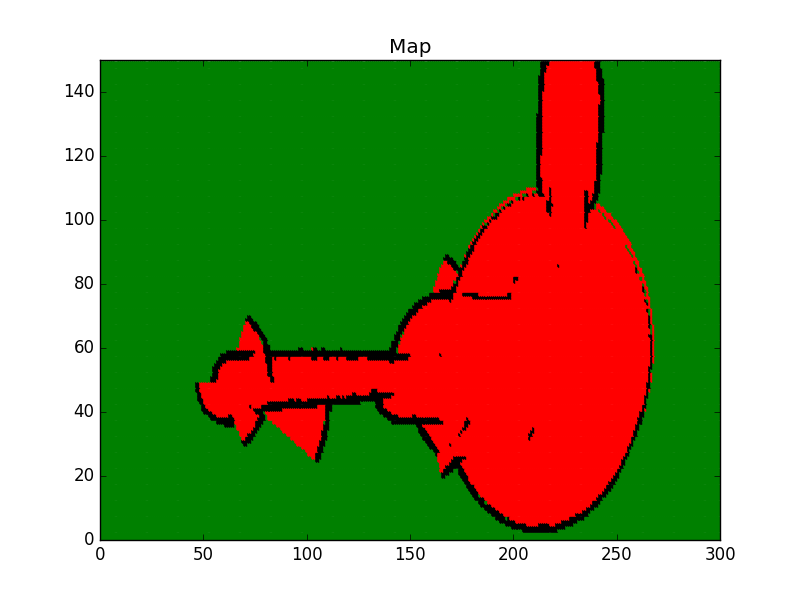
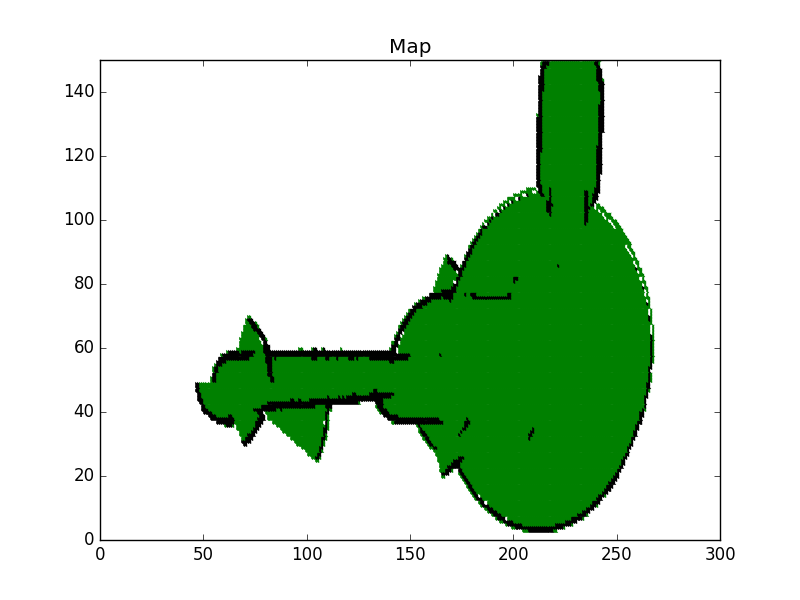
Code the mapping visualization for OcGrMap
Note that when I use white for unknown cells I can see
cases where free and unknown co-incide, indicating that the
mapping algorithm could be fine tuned further.

diff --git a/practice/mapping/RoboND-OccupancyGridMappingAlgorithm/main.cpp b/practice/mapping/RoboND-OccupancyGridMappingAlgorithm/main.cpp
@@ -78,12 +78,35 @@ void occupancyGridMapping(double Robotx, double Roboty, double Robottheta, doubl
 
 void visualization()
 {
-    //TODO: Initialize a plot named Map of size 300x150
-    
-    //TODO: Loop over the log odds values of the cells and plot each cell state. 
+    //Graph Format
+
+    //Initialize a plot named Map of size 300x150
+    plt::title("Map");
+    plt::xlim(0, (int)(mapWidth / gridWidth));
+    plt::ylim(0, (int)(mapHeight / gridHeight));
+
+    //Loop over the log odds values of the cells and plot each cell state. 
     //Unkown state: green color, occupied state: black color, and free state: red color 
-    
-    //TODO: Save the image and close the plot 
+
+    // Draw every grid of the map:
+    for (double x = 0; x < mapWidth / gridWidth; x++) {
+        cout << "Remaining Rows= " << mapWidth / gridWidth - x << endl;
+        for (double y = 0; y < mapHeight / gridHeight; y++) {
+            if (l[x][y] == l0) { //White unkown state
+                plt::plot({ x }, { y }, "w.");
+            }
+            else if (l[x][y] > locc) { //Black occupied state
+                plt::plot({ x }, { y }, "k.");
+            }
+            else { //Green free state (lfree)
+                plt::plot({ x }, { y }, "g.");
+            }
+        }
+    }
+
+    //Save the image and close the plot
+    plt::save("./Images/Map.png");
+    plt::clf();
 }
 
 int main()
